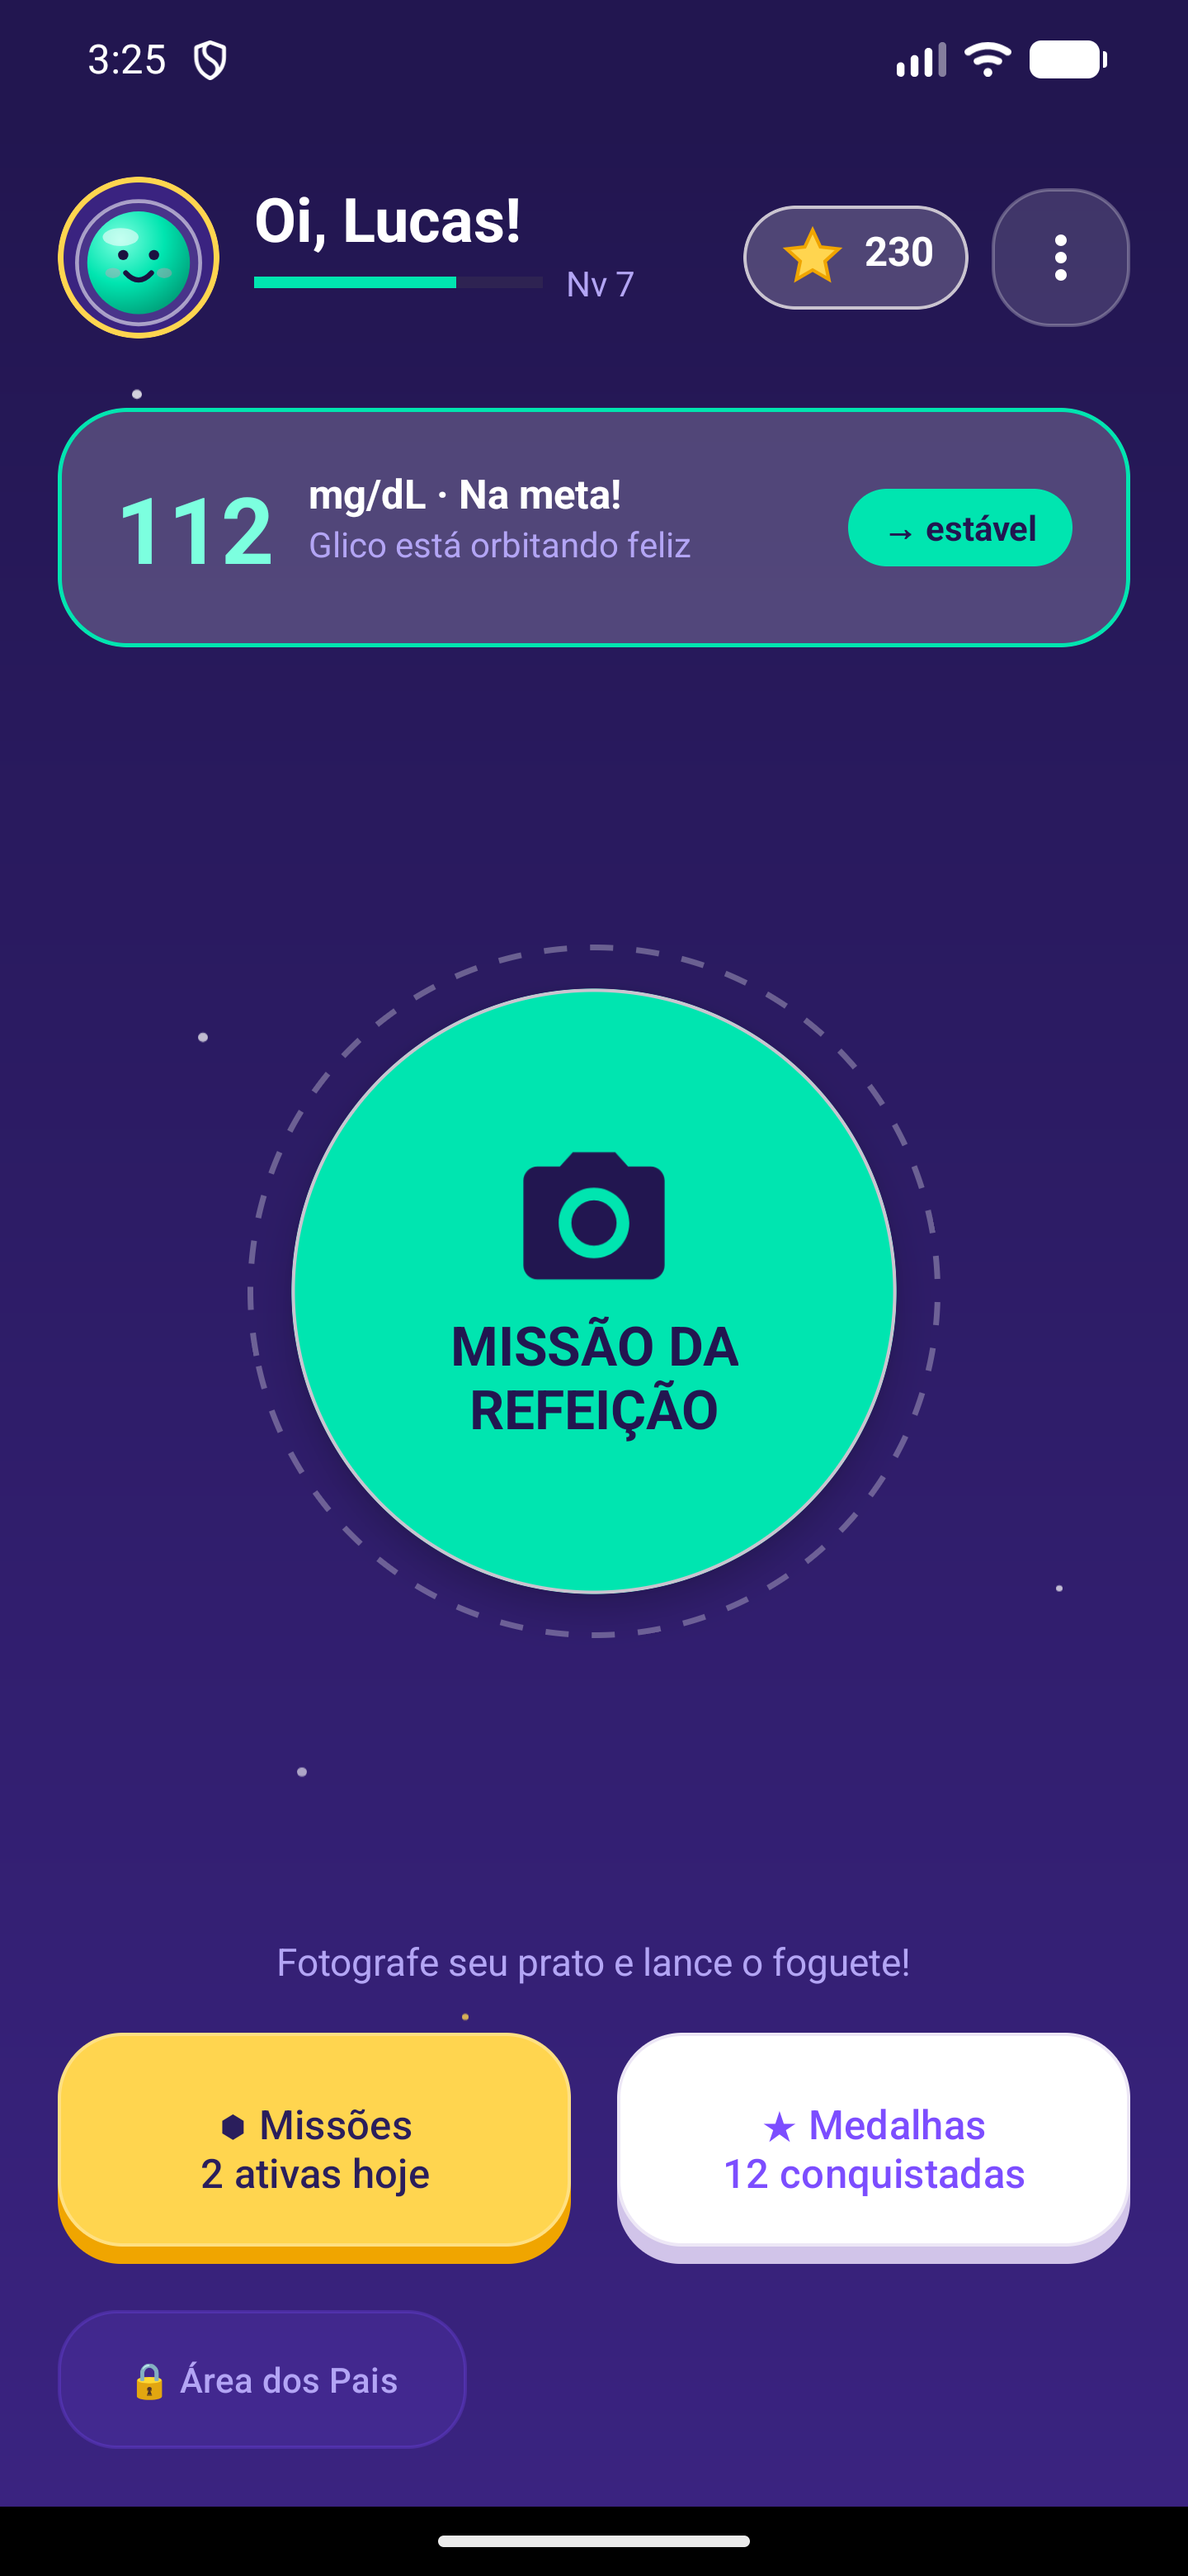
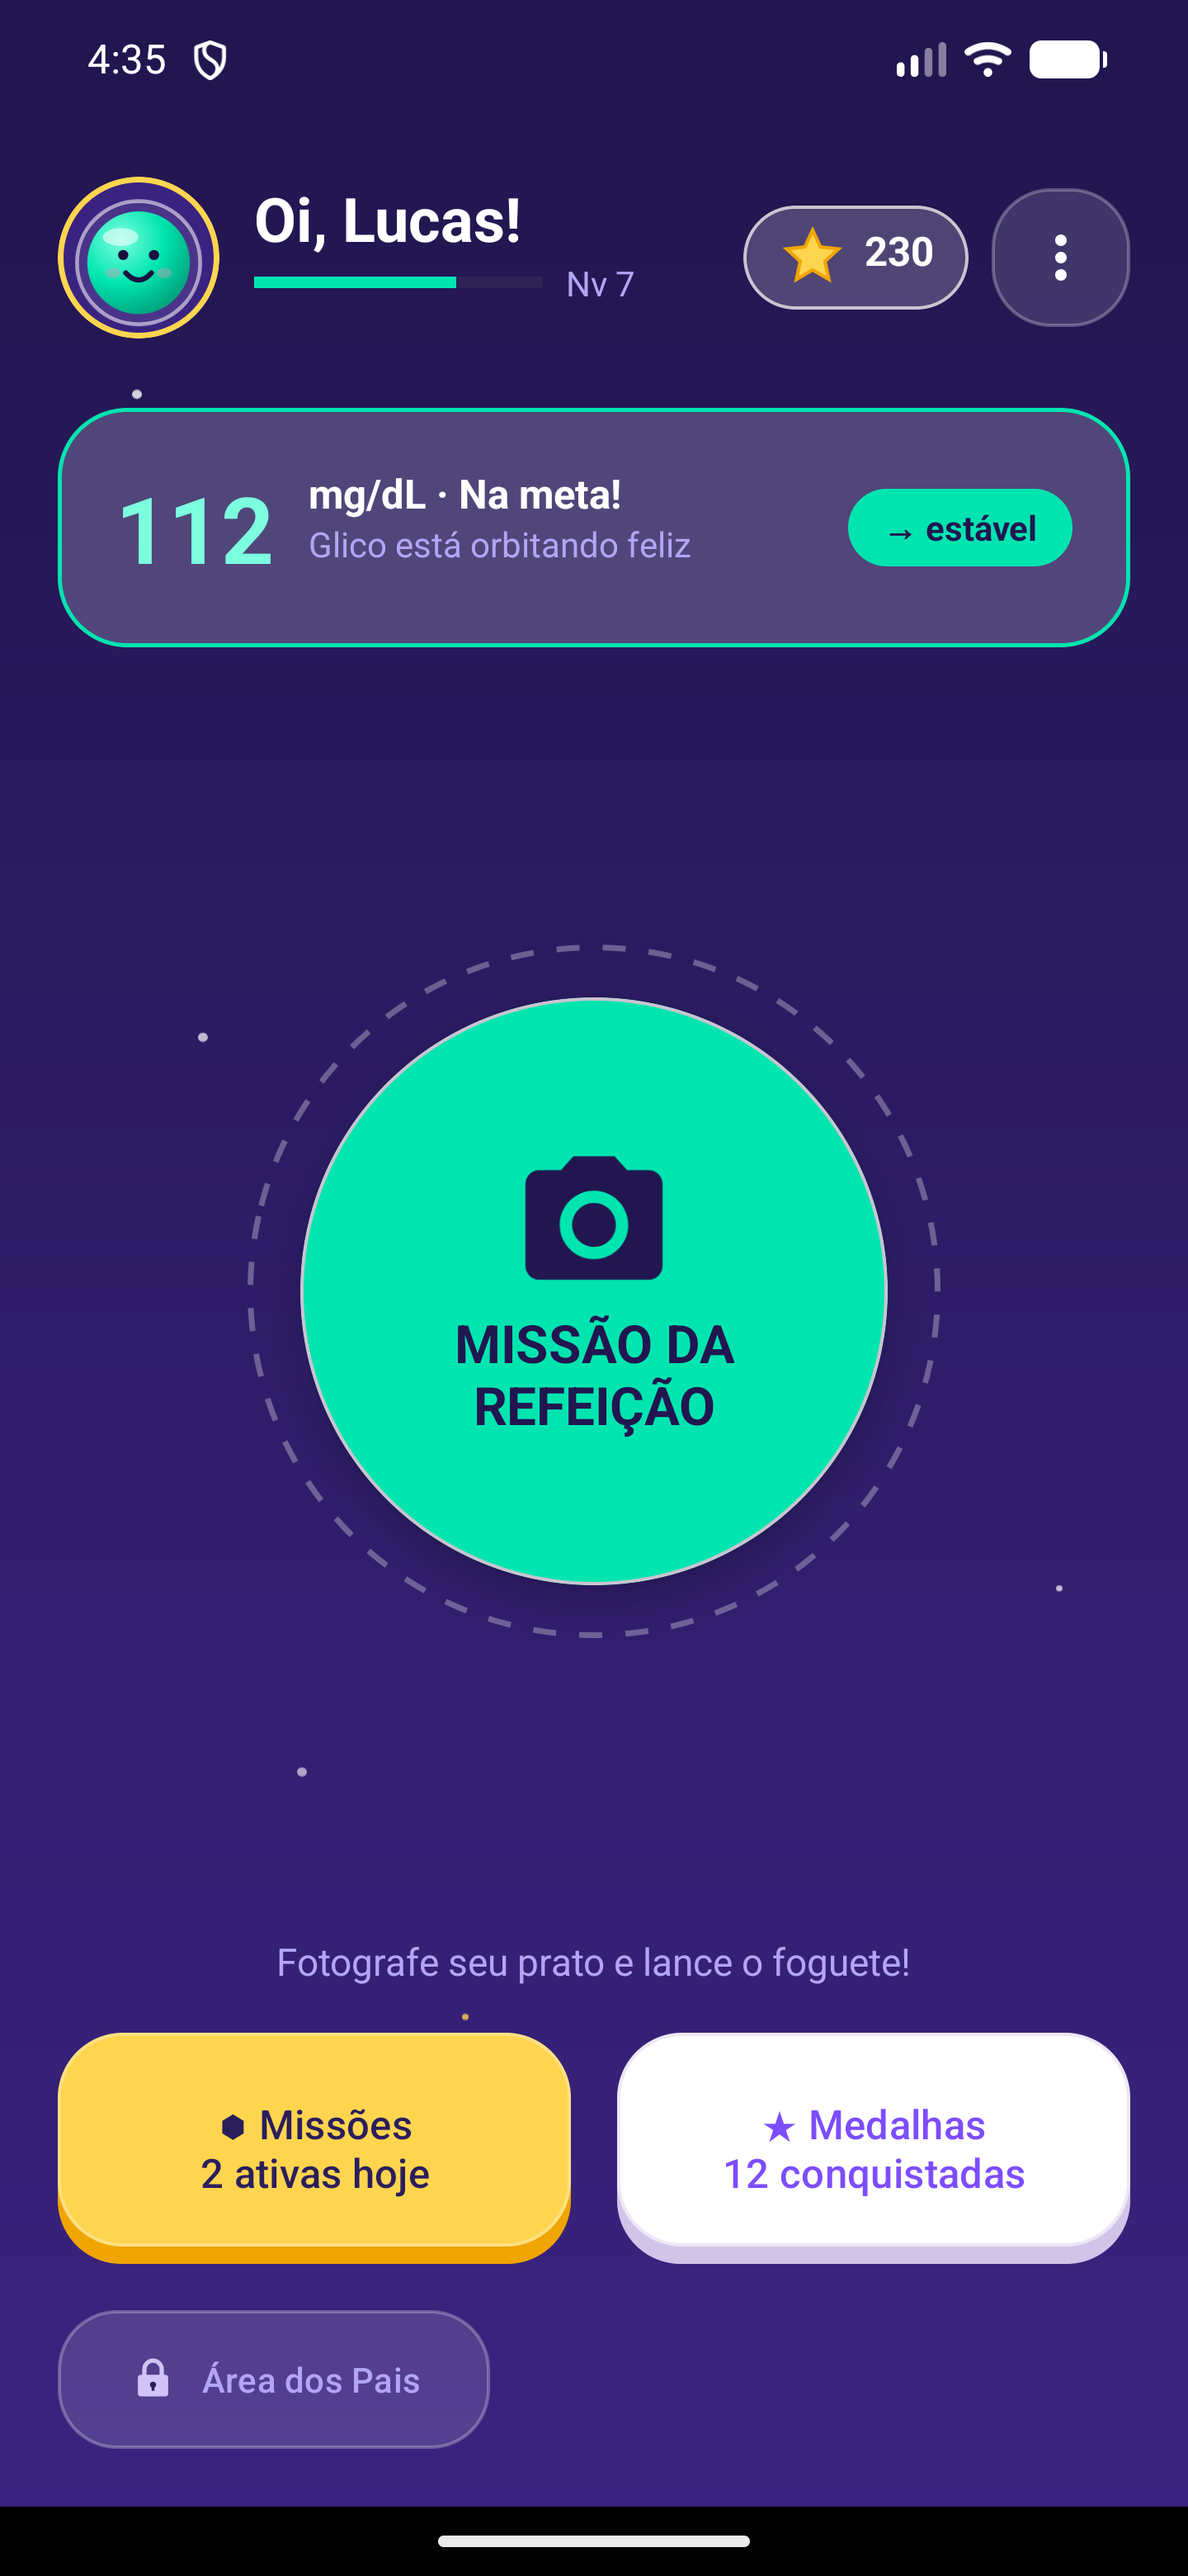
fix(ui): fecha os desvios de fidelidade que o pacote android-res não cobria
Cada valor veio do design doc, não de invenção:

- b9 · campo de glicemia usava bg_input_field (preto 30% + teal), que é o
  input do mundo ESCURO (f9), numa tela clara. Novo bg_input_light com os
  valores do doc: branco, borda 2dp #D9CFF3, raio 16dp.
- b9 · área da foto estava branca e vazia. bg_photo_placeholder = hachura 45°
  (#E3DAF7/#EDE7F6, equivalente ao repeating-linear-gradient do doc) + borda
  tracejada 3dp #B39DDB, raio 20dp.
- b9 · o ícone da câmera no botão não aparecia: MaterialButton ignora
  android:drawableStart. Trocado por app:icon (mesma causa do foguete da b11).
- b7 · pill "Área dos Pais" tinha emoji 🔒 dentro de um CTA (regra 10). Novo
  ic_lock_small na cor #CFC4F7 que o doc usa na pill.
- b1 · splash ganhou os 3 dots de loading (ativo teal, 2 em branco 35%) e o
  fundo estrelado que o doc mostra, no lugar do gradiente liso.

PIN (§8.1): sai a constante "1234" do SecurityViewModel e entra
parent_pin no EncryptedSharedPreferences, semeado no primeiro uso. O
ViewModel agora depende de StorageRepository e 3 testes novos cobrem
leitura do storage, semeadura e troca de PIN.

CORREÇÃO DE ACHADO ANTERIOR: relatei que faltavam a medalha 136dp e o
"NOVA MEDALHA · OURO" na b11 — reli o design doc e isso é da f11. A b11
já estava fiel; nada a fazer ali.

Verificado: assembleDebug e testDebugUnitTest verdes (31 testes) e prints
b01/b07/b09 refeitos no emulador.

diff --git a/app/src/test/java/com/glicokids/prototype/presentation/parents/SecurityViewModelTest.kt b/app/src/test/java/com/glicokids/prototype/presentation/parents/SecurityViewModelTest.kt
@@ -1,7 +1,11 @@
 package com.glicokids.prototype.presentation.parents
 
 import androidx.arch.core.executor.testing.InstantTaskExecutorRule
+import com.glicokids.prototype.domain.repository.StorageRepository
 import com.google.common.truth.Truth.assertThat
+import io.mockk.every
+import io.mockk.mockk
+import io.mockk.verify
 import org.junit.Before
 import org.junit.Rule
 import org.junit.Test
@@ -11,11 +15,44 @@ class SecurityViewModelTest {
     @get:Rule
     val instantTaskExecutorRule = InstantTaskExecutorRule()
 
+    private val storageRepository = mockk<StorageRepository>(relaxed = true)
     private lateinit var viewModel: SecurityViewModel
 
     @Before
     fun setup() {
-        viewModel = SecurityViewModel()
+        every { storageRepository.getString(SecurityViewModel.KEY_PARENT_PIN, "") } returns "1234"
+        viewModel = SecurityViewModel(storageRepository)
+    }
+
+    @Test
+    fun `PIN vem do storage criptografado, nunca de constante no codigo`() {
+        viewModel.validatePin("1234")
+
+        verify { storageRepository.getString(SecurityViewModel.KEY_PARENT_PIN, "") }
+        assertThat(viewModel.accessGranted.value).isTrue()
+    }
+
+    @Test
+    fun `sem PIN salvo, semeia o PIN de teste do prototipo e o grava`() {
+        every { storageRepository.getString(SecurityViewModel.KEY_PARENT_PIN, "") } returns ""
+        val vm = SecurityViewModel(storageRepository)
+
+        vm.validatePin("1234")
+
+        verify { storageRepository.saveString(SecurityViewModel.KEY_PARENT_PIN, "1234") }
+        assertThat(vm.accessGranted.value).isTrue()
+    }
+
+    @Test
+    fun `PIN alterado no storage passa a valer e o antigo deixa de abrir`() {
+        every { storageRepository.getString(SecurityViewModel.KEY_PARENT_PIN, "") } returns "9876"
+        val vm = SecurityViewModel(storageRepository)
+
+        vm.validatePin("1234")
+        assertThat(vm.accessGranted.value).isFalse()
+
+        vm.validatePin("9876")
+        assertThat(vm.accessGranted.value).isTrue()
     }
 
     @Test

diff --git a/app/src/main/java/com/glicokids/prototype/presentation/parents/SecurityViewModel.kt b/app/src/main/java/com/glicokids/prototype/presentation/parents/SecurityViewModel.kt
@@ -3,11 +3,14 @@ package com.glicokids.prototype.presentation.parents
 import androidx.lifecycle.LiveData
 import androidx.lifecycle.MutableLiveData
 import androidx.lifecycle.ViewModel
+import com.glicokids.prototype.domain.repository.StorageRepository
 import dagger.hilt.android.lifecycle.HiltViewModel
 import javax.inject.Inject
 
 @HiltViewModel
-class SecurityViewModel @Inject constructor() : ViewModel() {
+class SecurityViewModel @Inject constructor(
+    private val storageRepository: StorageRepository
+) : ViewModel() {
 
     private val _accessGranted = MutableLiveData(false)
     val accessGranted: LiveData<Boolean> = _accessGranted
@@ -20,7 +23,17 @@ class SecurityViewModel @Inject constructor() : ViewModel() {
 
     private var attemptCount = 0
     private val maxAttempts = 3
-    private val correctPin = "1234" // Mocked PIN
+
+    /**
+     * §8.1: `parent_pin` é o único dado sensível e mora no EncryptedSharedPreferences.
+     * No primeiro uso semeamos o PIN de teste do protótipo (1234); a partir daí a
+     * fonte da verdade é o storage — nunca uma constante no código.
+     */
+    private val correctPin: String
+        get() = storageRepository.getString(KEY_PARENT_PIN, "").ifBlank {
+            storageRepository.saveString(KEY_PARENT_PIN, DEFAULT_PIN)
+            DEFAULT_PIN
+        }
 
     fun validatePin(pin: String) {
         if (_isLocked.value == true) {
@@ -51,5 +64,10 @@ class SecurityViewModel @Inject constructor() : ViewModel() {
             }
             _accessGranted.value = false
         }
+    }
+
+    companion object {
+        const val KEY_PARENT_PIN = "parent_pin"
+        private const val DEFAULT_PIN = "1234"
     }
 }
